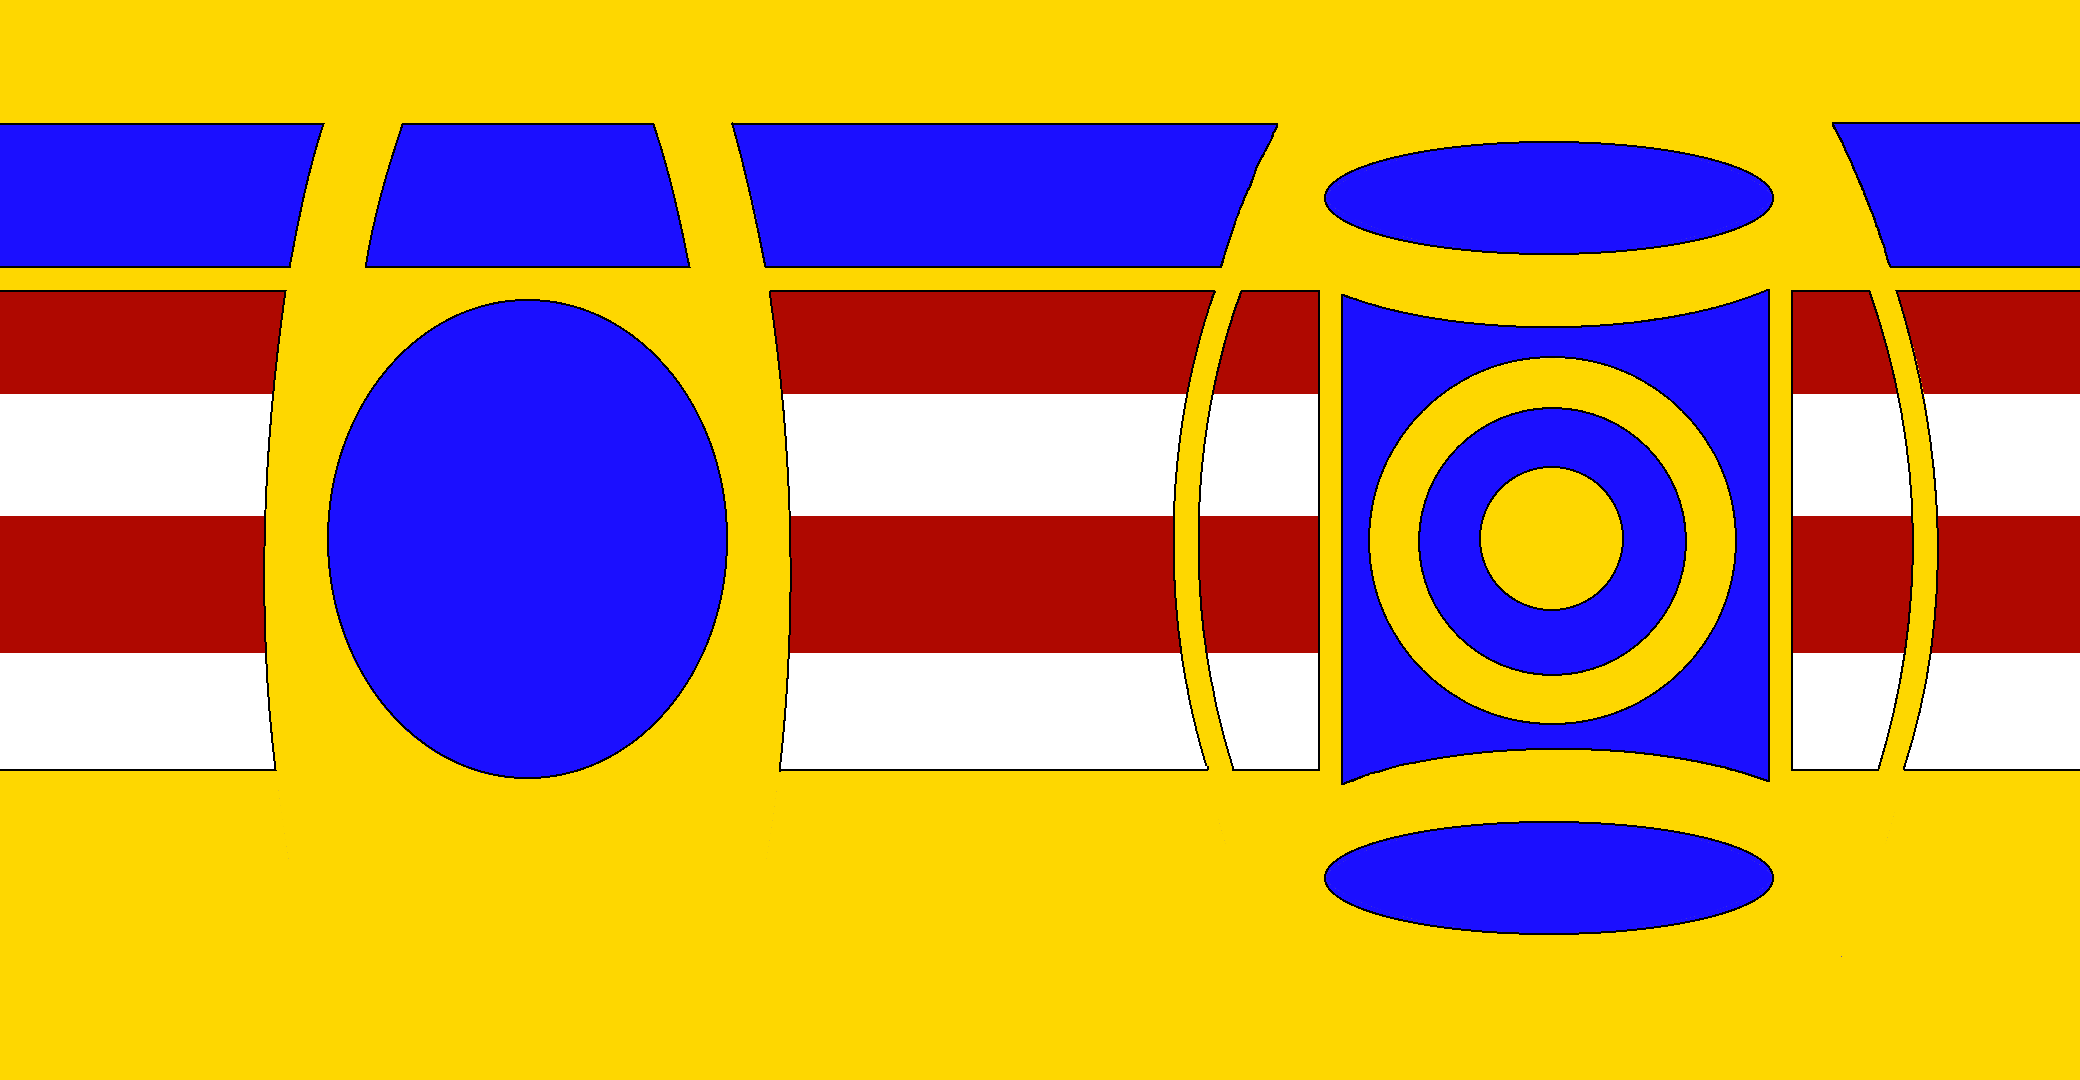
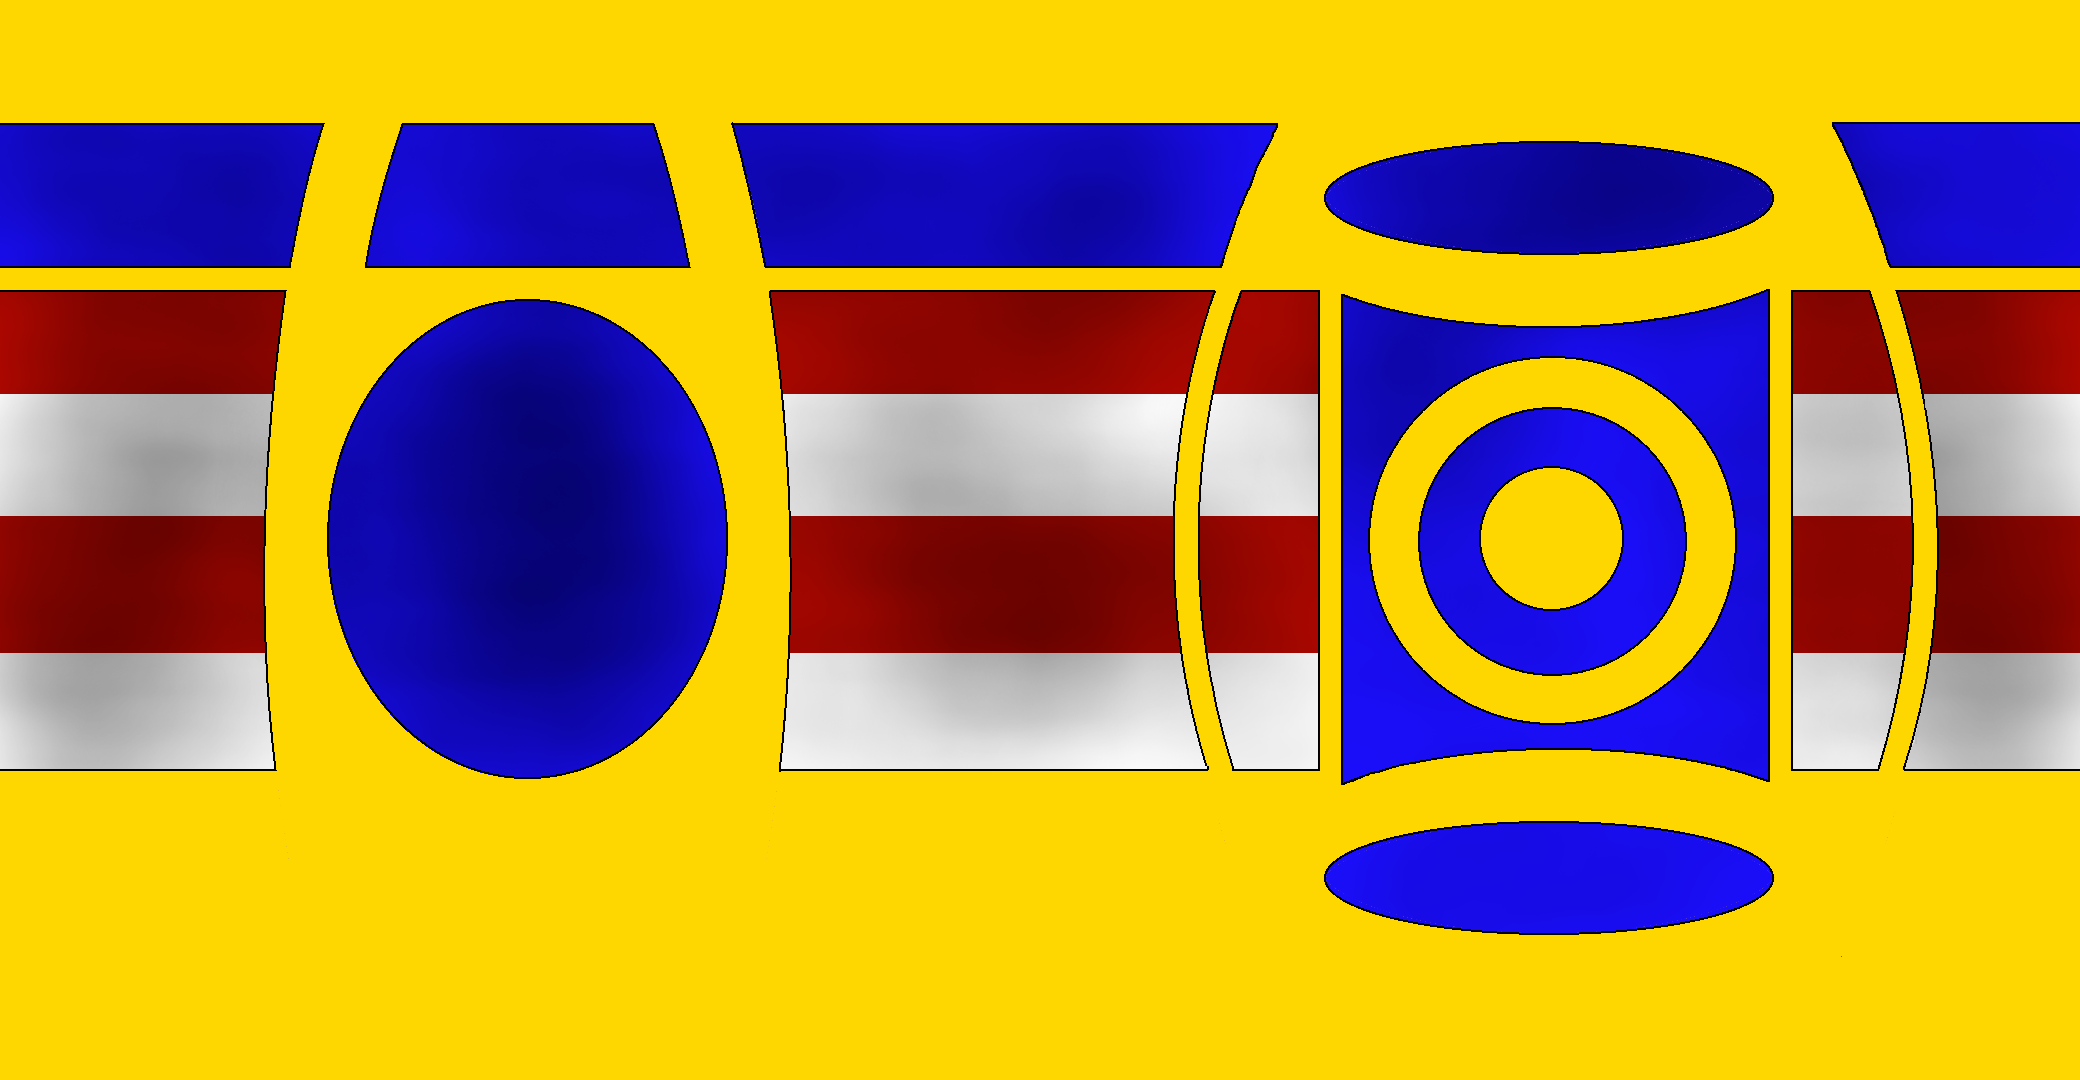
Fixed speedFactor, improved the balloon's texture

diff --git a/Pratical/proj/MyVehicle.js b/Pratical/proj/MyVehicle.js
@@ -128,17 +128,17 @@ class MyVehicle extends CGFobject {
             this.speed[0] += this.acceleration;
             this.speed[0] = Math.max(0, this.speed[0]);
 
-            this.position[0] += this.speed[0] * Math.sin(this.curAngle);
-            this.position[2] += this.speed[0] * Math.cos(this.curAngle);
+            this.position[0] += this.scene.speedFactor * this.speed[0] * Math.sin(this.curAngle);
+            this.position[2] += this.scene.speedFactor * this.speed[0] * Math.cos(this.curAngle);
 
             this.phase += 2 * this.speed[0];
         }
         else {
-            this.speed[0] += 0.98 * this.scene.speedFactor * this.acceleration * Math.sin(this.curAngle);
-            this.speed[2] += 0.98 * this.scene.speedFactor * this.acceleration * Math.cos(this.curAngle);
+            this.speed[0] += this.acceleration * Math.sin(this.curAngle);
+            this.speed[2] += this.acceleration * Math.cos(this.curAngle);
 
-            this.position[0] += this.speed[0];
-            this.position[2] += this.speed[2];
+            this.position[0] += this.speed[0] * this.scene.speedFactor;
+            this.position[2] += this.speed[2] * this.scene.speedFactor;
 
             this.phase += 2 * Math.sqrt(this.speed[0]**2 + this.speed[2]**2);
 

diff --git a/Pratical/proj/MyScene.js b/Pratical/proj/MyScene.js
@@ -154,11 +154,11 @@ class MyScene extends CGFscene {
 
         // Check for key codes e.g. in https://keycode.info/
         if (this.gui.getKey("KeyW")) {
-            this.vehicle.accelerate(0.3 * this.speedFactor);
+            this.vehicle.accelerate(0.3);
         }
 
         if (this.gui.getKey("KeyS")) {
-            this.vehicle.accelerate(0.2 * -this.speedFactor);
+            this.vehicle.accelerate(-0.2);
         }
 
         if (this.gui.getKey("KeyA")) {
